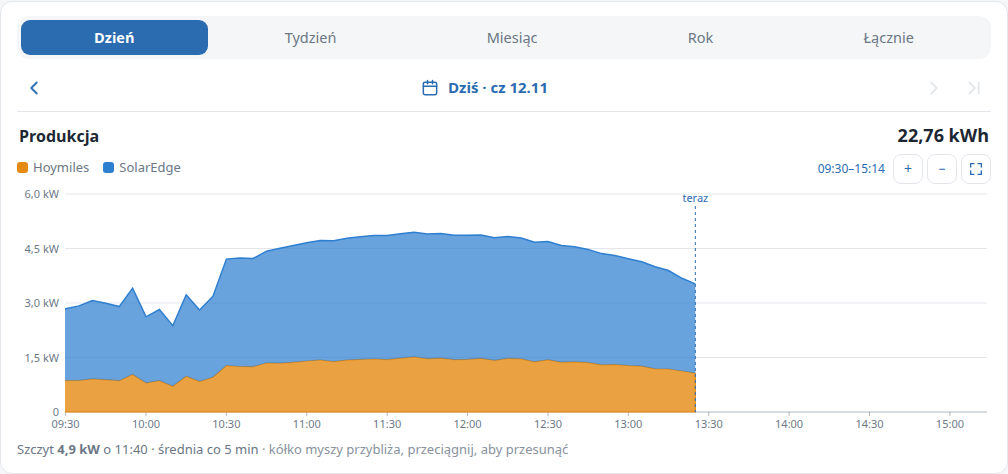
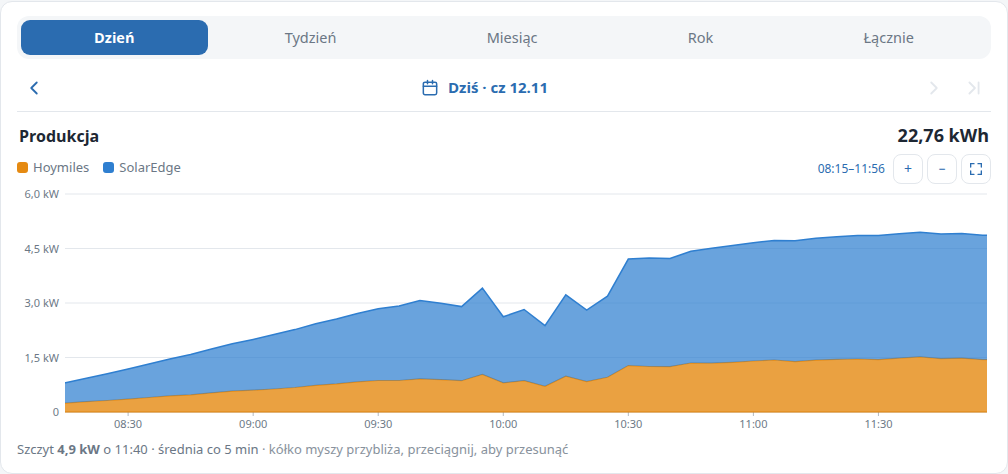
CI: klonowanie gałęzi supporting_5000_MIT_8T; poprawka domyślnego zakresu wykresu

diff --git a/include/HistoryPage.h b/include/HistoryPage.h
@@ -336,27 +336,27 @@ function peakOf(d){if(!d)return 0;let m=0;for(let i=0;i<d.hoy.length;i++){const 
 // ---- zoom & pan (wheel, drag, pinch, buttons, double click = reset)
 let Z={k:''},CH=null,rq=0;
 const zkey=()=>per+':'+off;
-function zdom(lo,hi,d0,d1,min,fmt){if(Z.k!==zkey())Z={k:zkey(),v0:d0,v1:d1};CH={lo,hi,d0,d1,min,fmt,draw:CH&&CH.draw};zclamp();return [Z.v0,Z.v1];}
+function zdom(lo,hi,d0,d1,min,fmt){if(Z.k!==zkey()||(!Z.u&&(Z.d0!==d0||Z.d1!==d1)))Z={k:zkey(),v0:d0,v1:d1,d0,d1,u:false};CH={lo,hi,d0,d1,min,fmt,draw:CH&&CH.draw};zclamp();return [Z.v0,Z.v1];}
 function zclamp(){const {lo,hi,min}=CH;const sp=Math.max(min,Math.min(hi-lo,Z.v1-Z.v0));let a=Math.max(lo,Math.min(Z.v0,hi-sp));Z.v0=a;Z.v1=a+sp;}
 const zoomed=()=>CH&&(Math.abs(Z.v0-CH.d0)>1e-6||Math.abs(Z.v1-CH.d1)>1e-6);
 function zredraw(){if(rq)return;rq=requestAnimationFrame(()=>{rq=0;if(CH&&CH.draw)CH.draw();});}
-function zoomAt(f,frac){if(!CH)return;const sp=Z.v1-Z.v0,c=Z.v0+sp*frac;Z.v0=c-sp*f*frac;Z.v1=Z.v0+sp*f;zclamp();zredraw();}
+function zoomAt(f,frac){if(!CH)return;Z.u=true;const sp=Z.v1-Z.v0,c=Z.v0+sp*frac;Z.v0=c-sp*f*frac;Z.v1=Z.v0+sp*f;zclamp();zredraw();}
 function zui(){if(!CH)return;const z=zoomed();$('zRst').disabled=!z;$('zIn').disabled=Z.v1-Z.v0<=CH.min+1e-6;$('zOut').disabled=Z.v0<=CH.lo+1e-6&&Z.v1>=CH.hi-1e-6;$('zInfo').textContent=z?CH.fmt(Z.v0,Z.v1):'';$('chart').classList.toggle('zm',z);}
 (function(){const box=$('chart'),P=new Map();let drag=null,pinch=null;
   const plot=()=>{const r=box.getBoundingClientRect(),L=CH&&CH.left||48;return {r,L,w:Math.max(1,r.width-4-L)};};
   const frac=x=>{const {r,L,w}=plot();return Math.max(0,Math.min(1,(x-r.left-L)/w));};
-  box.addEventListener('wheel',e=>{if(!CH)return;if(Math.abs(e.deltaX)>Math.abs(e.deltaY)){e.preventDefault();const {w}=plot();Z.v0+=e.deltaX/w*(Z.v1-Z.v0);Z.v1+=e.deltaX/w*(Z.v1-Z.v0);zclamp();zredraw();return;}const full=Z.v0<=CH.lo+1e-6&&Z.v1>=CH.hi-1e-6,tiny=Z.v1-Z.v0<=CH.min+1e-6;if(e.deltaY>0&&full||e.deltaY<0&&tiny)return;e.preventDefault();zoomAt(e.deltaY<0?0.8:1.25,frac(e.clientX));},{passive:false});
+  box.addEventListener('wheel',e=>{if(!CH)return;if(Math.abs(e.deltaX)>Math.abs(e.deltaY)){e.preventDefault();const {w}=plot();Z.u=true;Z.v0+=e.deltaX/w*(Z.v1-Z.v0);Z.v1+=e.deltaX/w*(Z.v1-Z.v0);zclamp();zredraw();return;}const full=Z.v0<=CH.lo+1e-6&&Z.v1>=CH.hi-1e-6,tiny=Z.v1-Z.v0<=CH.min+1e-6;if(e.deltaY>0&&full||e.deltaY<0&&tiny)return;e.preventDefault();zoomAt(e.deltaY<0?0.8:1.25,frac(e.clientX));},{passive:false});
   box.addEventListener('pointerdown',e=>{if(!CH)return;P.set(e.pointerId,e.clientX);
     if(P.size===2){const xs=[...P.values()];pinch={d:Math.abs(xs[0]-xs[1])||1,c:frac((xs[0]+xs[1])/2),v0:Z.v0,v1:Z.v1};drag=null;}
     else if(P.size===1&&(e.pointerType!=='mouse'||e.button===0)){drag={x:e.clientX,v0:Z.v0,v1:Z.v1,moved:false,id:e.pointerId};}});
   box.addEventListener('pointermove',e=>{if(!P.has(e.pointerId))return;P.set(e.pointerId,e.clientX);
-    if(pinch&&P.size===2){const xs=[...P.values()],d=Math.abs(xs[0]-xs[1])||1,sp=(pinch.v1-pinch.v0)*pinch.d/d,c=pinch.v0+(pinch.v1-pinch.v0)*pinch.c;Z.v0=c-sp*pinch.c;Z.v1=Z.v0+sp;zclamp();zredraw();e.preventDefault();return;}
+    if(pinch&&P.size===2){const xs=[...P.values()],d=Math.abs(xs[0]-xs[1])||1,sp=(pinch.v1-pinch.v0)*pinch.d/d,c=pinch.v0+(pinch.v1-pinch.v0)*pinch.c;Z.u=true;Z.v0=c-sp*pinch.c;Z.v1=Z.v0+sp;zclamp();zredraw();e.preventDefault();return;}
     if(drag){const dx=e.clientX-drag.x;if(!drag.moved&&Math.abs(dx)>5&&zoomed()){drag.moved=true;try{box.setPointerCapture(drag.id);}catch(x){}box.classList.add('pan');}
-      if(drag.moved){const {w}=plot(),dv=-dx/w*(drag.v1-drag.v0);Z.v0=drag.v0+dv;Z.v1=drag.v1+dv;zclamp();zredraw();}}});
+      if(drag.moved){const {w}=plot(),dv=-dx/w*(drag.v1-drag.v0);Z.u=true;Z.v0=drag.v0+dv;Z.v1=drag.v1+dv;zclamp();zredraw();}}});
   const up=e=>{P.delete(e.pointerId);if(P.size<2)pinch=null;if(!P.size){drag=null;box.classList.remove('pan');}};
   box.addEventListener('pointerup',up);box.addEventListener('pointercancel',up);
-  box.addEventListener('dblclick',()=>{if(!CH)return;Z.v0=CH.d0;Z.v1=CH.d1;zredraw();});
-  $('zIn').onclick=()=>zoomAt(0.6,0.5);$('zOut').onclick=()=>zoomAt(1/0.6,0.5);$('zRst').onclick=()=>{if(CH){Z.v0=CH.d0;Z.v1=CH.d1;zredraw();}};
+  box.addEventListener('dblclick',()=>{if(!CH)return;Z.v0=CH.d0;Z.v1=CH.d1;Z.u=false;zredraw();});
+  $('zIn').onclick=()=>zoomAt(0.6,0.5);$('zOut').onclick=()=>zoomAt(1/0.6,0.5);$('zRst').onclick=()=>{if(CH){Z.v0=CH.d0;Z.v1=CH.d1;Z.u=false;zredraw();}};
 })();
 function clip(svg,left,top,W,bot){const id='cp'+Math.random().toString(36).slice(2,7);const c=el('clipPath',{id},el('defs',{},svg));el('rect',{x:left,y:top-2,width:W-4-left,height:bot-top+4},c);return el('g',{'clip-path':`url(#${id})`},svg);}
 function drawPower(d){

diff --git a/README.md b/README.md
@@ -34,7 +34,7 @@ Fusion porównuje swój numer wersji z najwyższym tagiem `fusion-vN` w tym repo
 ## Budowanie lokalnie
 
 ```
-git clone https://github.com/smoe/OpenDTU.git && cd OpenDTU
+git clone -b supporting_5000_MIT_8T https://github.com/smoe/OpenDTU.git && cd OpenDTU
 git checkout $(cat ../BASE_COMMIT)
 git am ../patches/*.patch
 pio run -e opendtufusionv2 -e opendtufusionv2_poe
